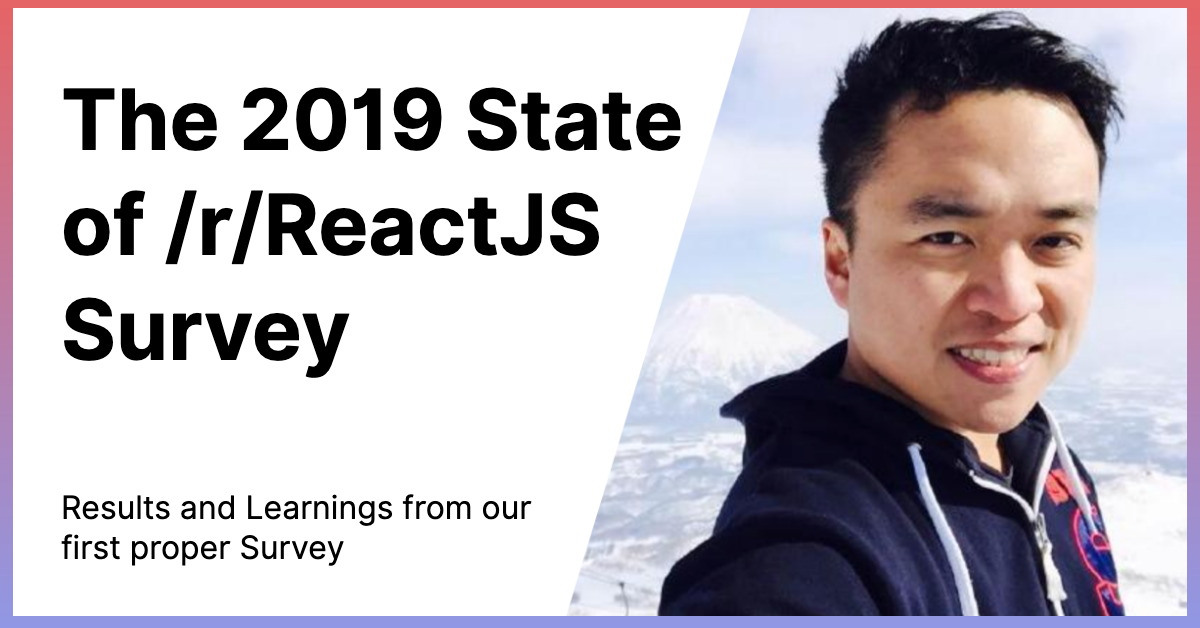
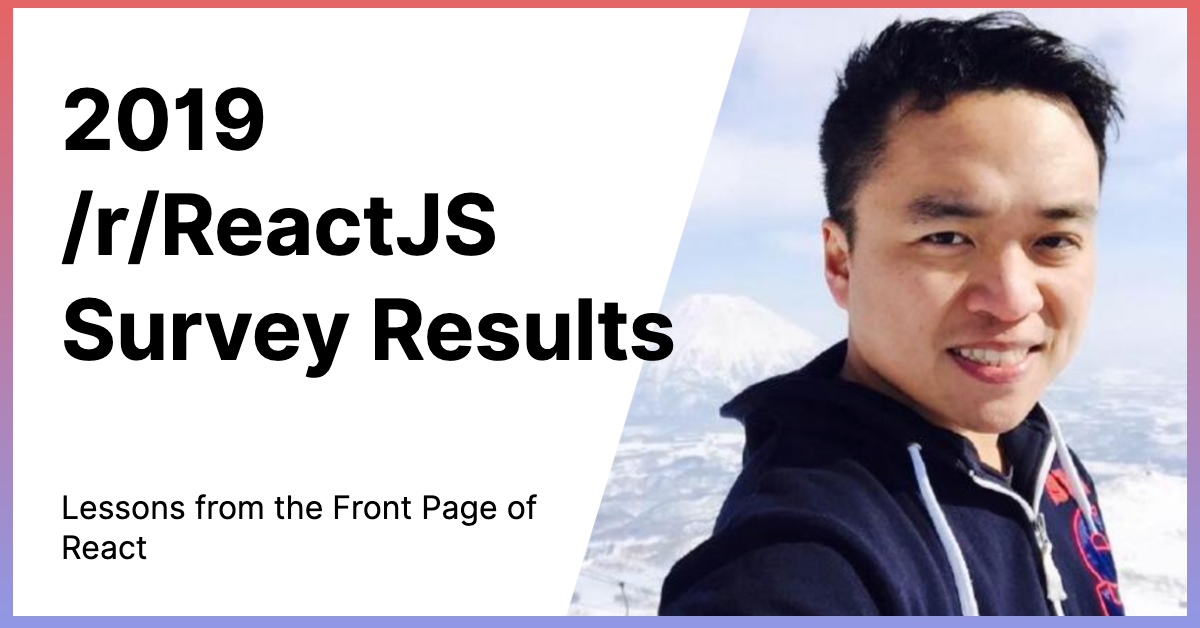
change title

diff --git a/content/writing/technical/react/react-survey-2019.md b/content/writing/technical/react/react-survey-2019.md
@@ -1,6 +1,6 @@
 ---
-title: The 2019 State of /r/ReactJS Survey
-subtitle: Results and Learnings from our first proper Survey
+title: 2019 /r/ReactJS Survey Results
+subtitle: Lessons from the Front Page of React
 slug: react-survey-2019
 categories: ['React']
 date: 2020-02-13
